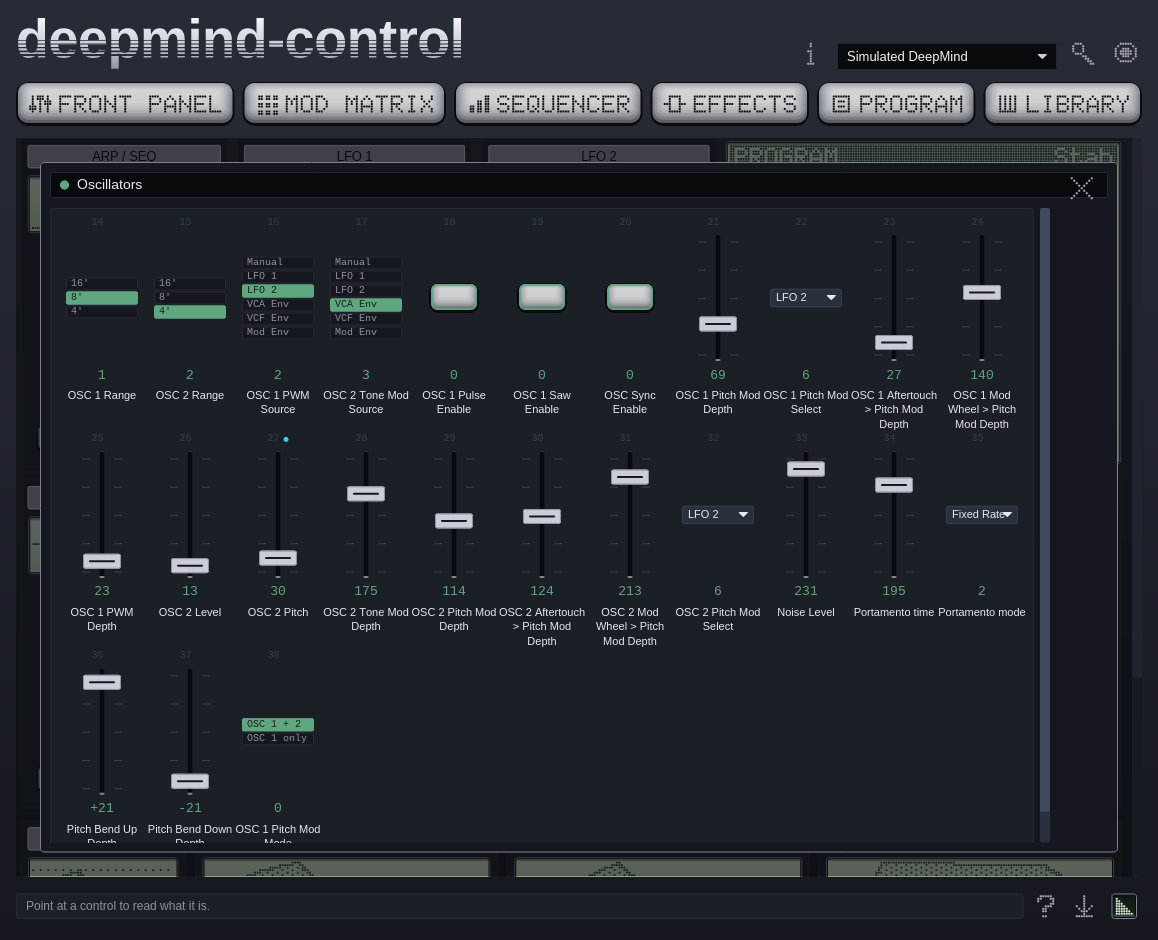
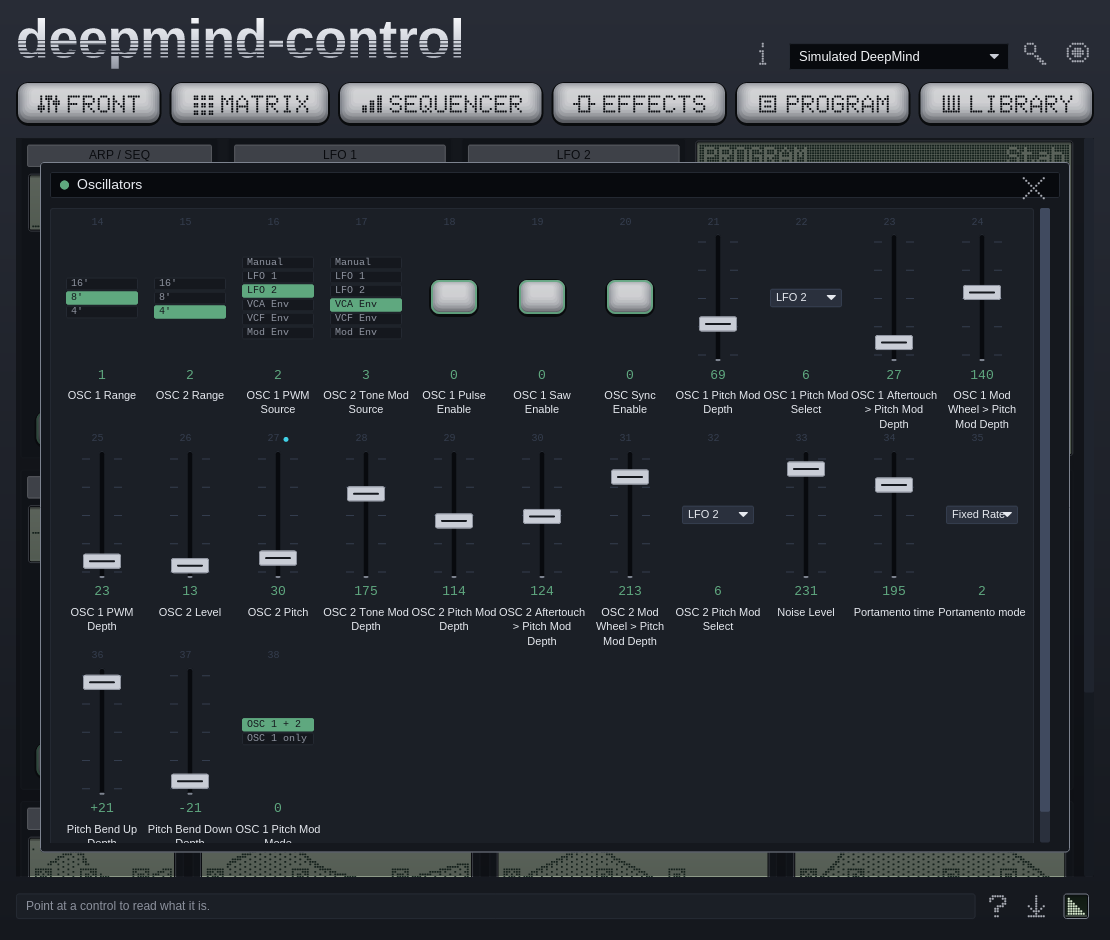
Cut the cap to the proportion the instrument's presses actually have
Measured twice, and the first reading was wrong. 43 by 26 came off a crop that
cut the bottom of the cap off, which made it five to three; the lit face of an
`EDIT` on a `DeepMind` is 43 by 32, and the bezel round it makes the whole press
squarer still. Five to three is visibly flatter than the instrument — these are
nearly square buttons.

So the cap is 50 by 38 rather than 50 by 30. The mark on it has more room
around it than the 22 points it needs, which it wanted anyway.

Two names lose the word that was doing no work

The band of ways in is a row across the top of the window and every cap in it is
as wide as its own printing, so a name carrying a word that says nothing spends
the row's width on nothing.

`FRONT PANEL` said *panel* to a row of caps that are all panels, and the mark
beside it is already a rack of faders: it is `FRONT`. `MOD MATRIX` is `MATRIX`,
because a `DeepMind` has one matrix and that is the word anybody says out loud.

Both are in `section::name` beside `SEQUENCER`, which is the same rule applied a
third time and still not a second table: the library's own string unless the
group is one of those, so a section a later library adds is printed under
whatever the library calls it. The window is 48 points narrower for it, since
what it opens at is partly what the band measures spelled out.

`mod-matrix.png` is `matrix.png`, the preview set following the name as it
follows every other.

Checks
[…]

diff --git a/crates/control-ui/src/section.rs b/crates/control-ui/src/section.rs
@@ -28,22 +28,29 @@ pub fn sections() -> &'static [Group] {
 /// The library's own name for it, with one exception, and the exception is why
 /// this function exists rather than a call to [`Group::name`] everywhere.
 ///
-/// # The one word this repository spells differently
+/// # The two words this repository spells differently
+///
+/// Both for one reason: the band of ways in is a row of presses across the top
+/// of the window, every cap in it is as wide as its own printing, and a name
+/// with a word in it that is doing no work spends the row's width on nothing.
+/// The word doing the work is the one the window prints.
 ///
 /// `Group::ControlSequencer` is what the manual's NRPN table calls the section,
-/// and the front of the instrument does not call it that: it prints `ARP / SEQ`
-/// on the plate the arpeggiator and the sequencer share. `CONTROL SEQUENCER` is
-/// the longest name of the fourteen, it is a quarter of the band of ways in on
-/// its own, and the word doing the work in it is the last one. So the window
-/// prints `SEQUENCER`.
+/// and the front of the instrument does not: it prints `ARP / SEQ` on the plate
+/// the arpeggiator and the sequencer share. `CONTROL SEQUENCER` was the longest
+/// of the fourteen. So the window prints `SEQUENCER`.
+///
+/// `Group::ModMatrix` is `MOD MATRIX`, and a `DeepMind` has one matrix. So the
+/// window prints `MATRIX`, which is also the word anybody would say out loud.
 ///
 /// Nothing else is renamed and nothing here is a second table: this is the
-/// library's string unless the group is that one, so a section a later library
-/// adds is printed under whatever the library calls it.
+/// library's string unless the group is one of those two, so a section a later
+/// library adds is printed under whatever the library calls it.
 #[must_use]
 pub fn name(group: Group) -> &'static str {
     match group {
         Group::ControlSequencer => SEQUENCER,
+        Group::ModMatrix => MATRIX,
         other => other.name(),
     }
 }
@@ -54,6 +61,9 @@ pub fn name(group: Group) -> &'static str {
 /// slice would be this file quietly depending on the library spelling it as two
 /// words with the useful one second.
 const SEQUENCER: &str = "Sequencer";
+
+/// What it prints instead of `Mod Matrix`, for the same reason.
+const MATRIX: &str = "Matrix";
 
 #[cfg(test)]
 #[expect(

diff --git a/crates/control-ui/src/panel.rs b/crates/control-ui/src/panel.rs
@@ -80,9 +80,10 @@ pub(crate) const BUTTON: f32 = fader::WIDTH;
 /// under the bezel.
 ///
 /// So the cap is sized from the mark and then cut to the instrument's own
-/// proportion, which is five to three: a `DeepMind`'s caps measure about 43 by
-/// 26 in a photograph of the front. It is still one size everywhere, so a row
-/// of presses is still one row.
+/// proportion, which is four to three: a `DeepMind`'s lit face measures about
+/// 43 by 32 in a photograph of the front, and the bezel round it makes the
+/// whole cap squarer still. It is one size everywhere, so a row of presses is
+/// one row.
 pub(crate) const CAP: f32 = 50.0;
 
 /// How tall that cap stands.
@@ -90,7 +91,12 @@ pub(crate) const CAP: f32 = 50.0;
 /// [`CAP`] at the instrument's own proportion, which is what makes it read as
 /// something a finger presses rather than something a pointer clicks. A cap
 /// drawn as tall as its own label is a menu item with a light behind it.
-pub(crate) const PRESS: f32 = 30.0;
+///
+/// Measured twice. The first reading was 43 by 26, taken off a crop that cut
+/// the bottom of the cap off, and five to three is visibly flatter than the
+/// instrument: a `DeepMind`'s presses are nearly square. The lit face is 43 by
+/// 32.
+pub(crate) const PRESS: f32 = 38.0;
 
 /// How tall one lit legend of a named set stands.
 ///

diff --git a/crates/control-ui/src/home.rs b/crates/control-ui/src/home.rs
@@ -1499,11 +1499,15 @@ fn printing(cap: Way) -> (Option<Badge>, String) {
 
 /// What the way home is called.
 ///
+/// One word, because the mark beside it is a rack of faders and the two
+/// together are unambiguous: `FRONT PANEL` spent a sixth of the row saying
+/// *panel* to a row of caps that are all panels.
+///
 /// What it goes back to, and not what it does. `BACK` is a direction and
 /// `CLOSE` is a thing happening to a sheet; this row is a row of places, so the
 /// cap that is not a section is named after the place it is: the instrument's
 /// own front, which is what the window is when nothing is over it.
-const HOME: &str = "FRONT PANEL";
+const HOME: &str = "FRONT";
 
 /// What the shelf is called.
 ///
